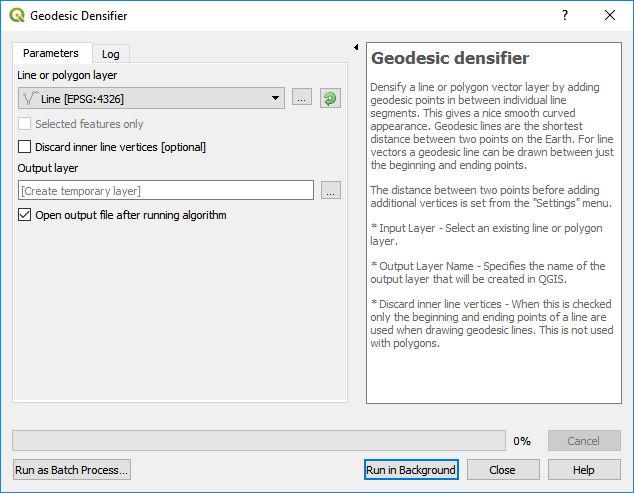
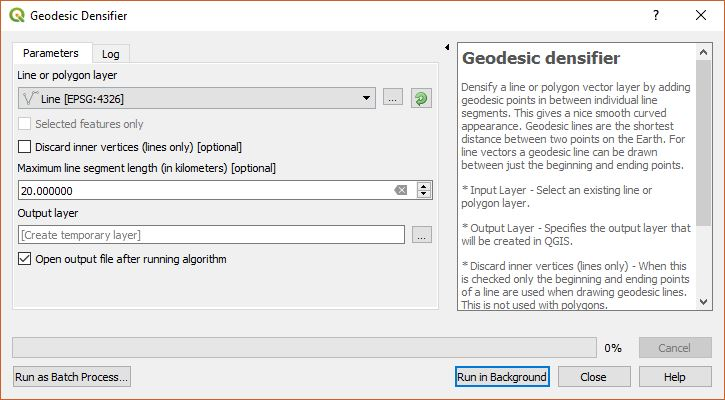
geodesic densifier enhancements

Changed region(s): [[0.0, 0.0, 1.0, 1.0], [0.5694, 0.75, 0.5994, 0.78]]

diff --git a/geodesicDensify.py b/geodesicDensify.py
@@ -11,6 +11,7 @@ from qgis.core import (QgsProcessing,
     QgsFeatureSink,
     QgsProcessingAlgorithm,
     QgsProcessingParameterBoolean,
+    QgsProcessingParameterNumber,
     QgsProcessingParameterFeatureSource,
     QgsProcessingParameterFeatureSink)
 
@@ -31,6 +32,7 @@ class GeodesicDensifyAlgorithm(QgsProcessingAlgorithm):
     PrmInputLayer = 'InputLayer'
     PrmOutputLayer = 'OutputLayer'
     PrmDiscardVertices = 'DiscardVertices'
+    PrmMaxSegmentLength = 'MaxSegmentLength'
 
     def initAlgorithm(self, config):
         self.addParameter(
@@ -40,21 +42,31 @@ class GeodesicDensifyAlgorithm(QgsProcessingAlgorithm):
                 [QgsProcessing.TypeVectorLine, QgsProcessing.TypeVectorPolygon])
         )
         self.addParameter(
+            QgsProcessingParameterBoolean(
+                self.PrmDiscardVertices,
+                tr('Discard inner vertices (lines only)'),
+                False,
+                optional=True)
+            )
+        self.addParameter(
+            QgsProcessingParameterNumber(
+                self.PrmMaxSegmentLength,
+                tr('Maximum line segment length (in kilometers)'),
+                QgsProcessingParameterNumber.Double,
+                defaultValue=settings.maxSegLength,
+                minValue=0.001,
+                optional=True)
+            )
+        self.addParameter(
             QgsProcessingParameterFeatureSink(
                 self.PrmOutputLayer,
                 tr('Output layer'))
-            )
-        self.addParameter(
-            QgsProcessingParameterBoolean(
-                self.PrmDiscardVertices,
-                tr('Discard inner line vertices'),
-                False,
-                optional=True)
             )
     
     def processAlgorithm(self, parameters, context, feedback):
         source = self.parameterAsSource(parameters, self.PrmInputLayer, context)
         discardVertices = self.parameterAsBool(parameters, self.PrmDiscardVertices, context)
+        maxseglen = self.parameterAsDouble(parameters, self.PrmMaxSegmentLength, context) * 1000 # Make it in meters
         
         wkbtype = source.wkbType()
         
@@ -65,14 +77,14 @@ class GeodesicDensifyAlgorithm(QgsProcessingAlgorithm):
             (sink, dest_id) = self.parameterAsSink(parameters, self.PrmOutputLayer,
                 context, source.fields(), outputType, source.sourceCrs())
 
-            num_bad = processLine(source, sink, feedback, discardVertices)
+            num_bad = processLine(source, sink, feedback, discardVertices, maxseglen)
         else:
             outputType = QgsWkbTypes.Polygon if wkbtype == QgsWkbTypes.Polygon else QgsWkbTypes.MultiPolygon
             
             (sink, dest_id) = self.parameterAsSink(parameters, self.PrmOutputLayer,
                 context, source.fields(), outputType, source.sourceCrs())
                 
-            num_bad = processPoly(source, sink, feedback)
+            num_bad = processPoly(source, sink, feedback, maxseglen)
             
         if num_bad > 0:
             feedback.pushInfo(tr("{} out of {} features from input layer failed to process correctly.".format(num_bad, source.featureCount())))
@@ -111,7 +123,7 @@ class GeodesicDensifyAlgorithm(QgsProcessingAlgorithm):
     def createInstance(self):
         return GeodesicDensifyAlgorithm()
 
-def processPoly(source, sink, feedback):
+def processPoly(source, sink, feedback, maxseglen):
     layercrs = source.sourceCrs()
     if layercrs != epsg4326:
         transto4326 = QgsCoordinateTransform(layercrs, epsg4326, QgsProject.instance())
@@ -120,8 +132,6 @@ def processPoly(source, sink, feedback):
     total = 100.0 / source.featureCount() if source.featureCount() else 0
     iterator = source.getFeatures()
     num_bad = 0
-    maxseglen = settings.maxSegLength*1000.0
-    maxSegments = settings.maxSegments
     for cnt, feature in enumerate(iterator):
         if feedback.isCanceled():
             break
@@ -133,6 +143,8 @@ def processPoly(source, sink, feedback):
                     continue
                 
                 ptset = []
+                # Iterate through all points in the polygon and if the distance
+                # is greater than the maxseglen, then add additional points.
                 for points in poly:
                     numpoints = len(points)
                     if numpoints < 2:
@@ -147,17 +159,15 @@ def processPoly(source, sink, feedback):
                         if layercrs != epsg4326: # Convert to 4326
                             ptEnd = transto4326.transform(ptEnd)
                         l = geod.InverseLine(ptStart.y(), ptStart.x(), ptEnd.y(), ptEnd.x())
-                        n = int(math.ceil(l.s13 / maxseglen))
-                        if n < 1: # Can be zero if two points are the same
-                            n = 1
-                        if n > maxSegments:
-                            n = maxSegments
-                            
-                        seglen = l.s13 / n
-                        for i in range(1,n):
-                            s = seglen * i
-                            g = l.Position(s, Geodesic.LATITUDE | Geodesic.LONGITUDE | Geodesic.LONG_UNROLL)
-                            pts.append( QgsPointXY(g['lon2'], g['lat2']) )
+                        # Check to see if the distance is greater than the maximum
+                        # segment length and if so lets add additional points.
+                        if l.s13 > maxseglen:
+                            n = int(math.ceil(l.s13 / maxseglen))
+                            seglen = l.s13 / n
+                            for i in range(1,n):
+                                s = seglen * i
+                                g = l.Position(s, Geodesic.LATITUDE | Geodesic.LONGITUDE | Geodesic.LONG_UNROLL)
+                                pts.append( QgsPointXY(g['lon2'], g['lat2']) )
                         pts.append(ptEnd)
                         ptStart = ptEnd
      
@@ -191,17 +201,13 @@ def processPoly(source, sink, feedback):
                             if layercrs != epsg4326: # Convert to 4326
                                 ptEnd = transto4326.transform(ptEnd)
                             l = geod.InverseLine(ptStart.y(), ptStart.x(), ptEnd.y(), ptEnd.x())
-                            n = int(math.ceil(l.s13 / maxseglen))
-                            if n < 1:
-                                n = 1
-                            if n > maxSegments:
-                                n = maxSegments
-                                
-                            seglen = l.s13 / n
-                            for i in range(1,n):
-                                s = seglen * i
-                                g = l.Position(s, Geodesic.LATITUDE | Geodesic.LONGITUDE | Geodesic.LONG_UNROLL)
-                                pts.append( QgsPointXY(g['lon2'], g['lat2']) )
+                            if l.s13 > maxseglen:
+                                n = int(math.ceil(l.s13 / maxseglen))
+                                seglen = l.s13 / n
+                                for i in range(1,n):
+                                    s = seglen * i
+                                    g = l.Position(s, Geodesic.LATITUDE | Geodesic.LONGITUDE | Geodesic.LONG_UNROLL)
+                                    pts.append( QgsPointXY(g['lon2'], g['lat2']) )
                             pts.append(ptEnd)
                             ptStart = ptEnd
          
@@ -225,7 +231,7 @@ def processPoly(source, sink, feedback):
         feedback.setProgress(int(cnt * total))
     return num_bad
         
-def processLine(source, sink, feedback, discardVertices):
+def processLine(source, sink, feedback, discardVertices, maxseglen):
     layercrs = source.sourceCrs()
     if layercrs != epsg4326:
         transto4326 = QgsCoordinateTransform(layercrs, epsg4326, QgsProject.instance())
@@ -234,8 +240,6 @@ def processLine(source, sink, feedback, discardVertices):
     total = 100.0 / source.featureCount() if source.featureCount() else 0
     iterator = source.getFeatures()
     num_bad = 0
-    maxseglen = settings.maxSegLength*1000.0
-    maxSegments = settings.maxSegments
     for cnt, feature in enumerate(iterator):
         if feedback.isCanceled():
             break
@@ -262,8 +266,6 @@ def processLine(source, sink, feedback, discardVertices):
                 l = geod.InverseLine(ptStart.y(), ptStart.x(), ptEnd.y(), ptEnd.x())
                 if l.s13 > maxseglen:
                     n = int(math.ceil(l.s13 / maxseglen))
-                    if n > maxSegments:
-                        n = maxSegments
                     seglen = l.s13 / n
                     for i in range(1,n):
                         s = seglen * i
@@ -288,10 +290,8 @@ def processLine(source, sink, feedback, discardVertices):
                         if layercrs != epsg4326: # Convert to 4326
                             ptEnd = transto4326.transform(ptEnd)
                         l = geod.InverseLine(ptStart.y(), ptStart.x(), ptEnd.y(), ptEnd.x())
-                        n = int(math.ceil(l.s13 / maxseglen))
                         if l.s13 > maxseglen:
-                            if n > maxSegments:
-                                n = maxSegments
+                            n = int(math.ceil(l.s13 / maxseglen))
                             seglen = l.s13 / n
                             for i in range(1,n):
                                 s = seglen * i
@@ -319,8 +319,6 @@ def processLine(source, sink, feedback, discardVertices):
                             l = geod.InverseLine(ptStart.y(), ptStart.x(), ptEnd.y(), ptEnd.x())
                             if l.s13 > maxseglen:
                                 n = int(math.ceil(l.s13 / maxseglen))
-                                if n > maxSegments:
-                                    n = maxSegments
                                 seglen = l.s13 / n
                                 for i in range(1,n):
                                     s = seglen * i

diff --git a/readme.md b/readme.md
@@ -137,13 +137,12 @@ If you have ever created a geospatial masterpiece that has crossings across the 
 
 Densify a line or polygon vector layer by adding geodesic points in between individual line segments when its length is too great. This gives it a nice smooth curved appearance. For line vectors a geodesic line can be drawn between just the beginning and ending points.
 
-The distance between two points before adding additional vertices is set from the **Settings** menu.
-
 <div style="text-align:center"><img src="doc/geodesicshape.jpg" alt="Geodesic Densifier"></div>
 
 * **Input Layer** - Select an existing line or polygon layer.
-* **Output Layer Name** - Specifies the name of the memory layer that will be created in QGIS.
-* **Discard inner vertices of the line vectors and just use end points** - When this is checked only the beginning and ending points are used when drawing geodesic lines.
+* **Output Layer** - Specifies the output layer that will be created in QGIS.
+* **Discard inner vertices (lines only)** - When this is checked only the beginning and ending points are used when drawing geodesic lines. This does not apply to polygons.
+* **Maximum line segment length (in kilometers)** - This is the maximum length of a line segment before a new vertex is added along the geodesic path. This value defaults to the length specified in the **Settings** menu.
 
 The following shows the before and after results of running this function on a polygon layer.
 
